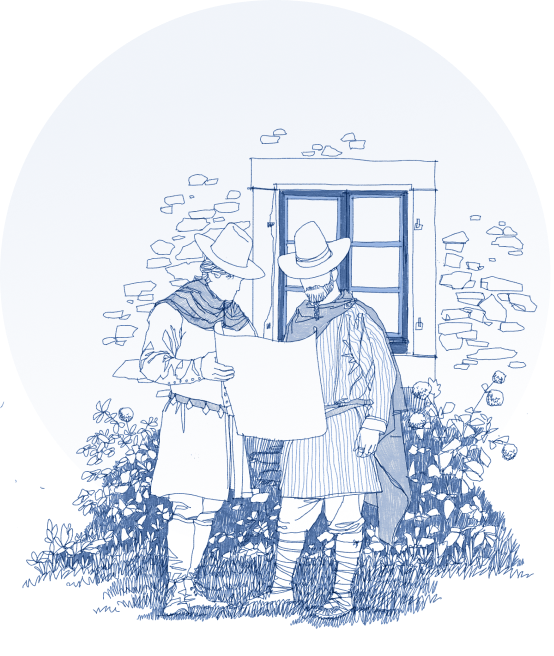
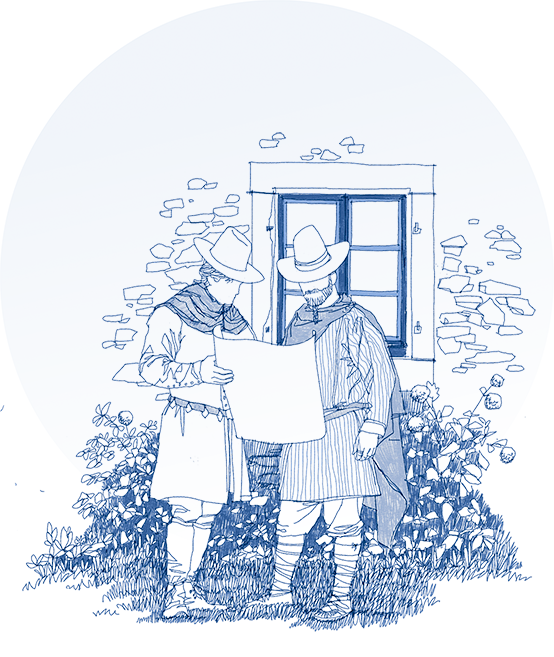
Полностью перерисовал картинки второго и третьего блока.
Перерисовал картинки с девушками и парнями десктопного и мобильного вида, добавил версии высокого разрешения для десктопной и мобильной версий.

Вёрстка подстроена под новые изображения.

Changed region(s): [[0.0307, 0.1829, 0.9819, 0.9756]]

diff --git a/web/index.html b/web/index.html
@@ -62,8 +62,8 @@
                         <p>Today the Wellyards continues this tradition and carries out its mission as a multi&nbsp;purpose office for the next generations of&nbsp;families.</p>
                     </div>
                     <div class="img_girls gr_animate">
-                        <img class="desktop_desktop" src="img/girls.png" alt="">
-                        <img class="mobile_mobile illust" src="img/girls_mobile.png" alt="">
+                        <img class="desktop_desktop" src="img/girls.png" srcset="img/girls-1.5x.png 1.5x, img/girls-2.0x.png 2x" alt="">
+                        <img class="mobile_mobile illust" src="img/girls_mobile.png" srcset="img/girls_mobile-1.5x.png 1.5x, img/girls_mobile-2.0x.png 2x" alt="">
                     </div>
                 </div>
             </div>
@@ -72,8 +72,8 @@
             <div class="container">
                 <div class="page__item_text service_layout">
                     <div class="img_girls gc_animate boys_m">
-                        <img class="desktop_desktop" src="img/boys.png" alt="">
-                        <img class="mobile_mobile" src="img/boys_mobile.png" alt="">
+                        <img class="desktop_desktop" src="img/boys.png" srcset="img/boys-1.5x.png 1.5x, img/boys-2.0x.png 2x" alt="">
+                        <img class="mobile_mobile" src="img/boys_mobile.png" srcset="img/boys_mobile-1.5x.png 1.5x, img/boys_mobile-2.0x.png 2x" alt="">
                     </div>
                     <div class="container_text ge_animate">
                         <div class="first_part">

diff --git a/web/css/main.css b/web/css/main.css
@@ -753,12 +753,20 @@ body {
 	max-width: 30vw;
 }
 
-.page__item_text .img_girls img {
+.page__item_text .img_girls img.mobile_mobile {
+	width: 99%;
+}
+
+.page__item_text .img_girls img.desktop_desktop {
 	width: 100%;
 }
 
-.page__item_text .boys_m img {
-	width: 90%;
+.page__item_text .boys_m img.mobile_mobile {
+	width: 99%;
+}
+
+.page__item_text .boys_m img.desktop_desktop {
+	width: 80%;
 }
 
 .city_img {
@@ -2383,7 +2391,7 @@ body {
 }
 
 .page__item_text .boys_m img {
-	width: 80%;
+	width: 75%;
 }
 
 /* .page__item_text .img_girls .desktop_desktop {
@@ -2698,7 +2706,7 @@ body {
 	justify-content: space-between !important;
 }
 
-.img_girls.boys_m .mobile_mobile {
+.img_girls .mobile_mobile {
 	max-width: 100%;
 }
 
